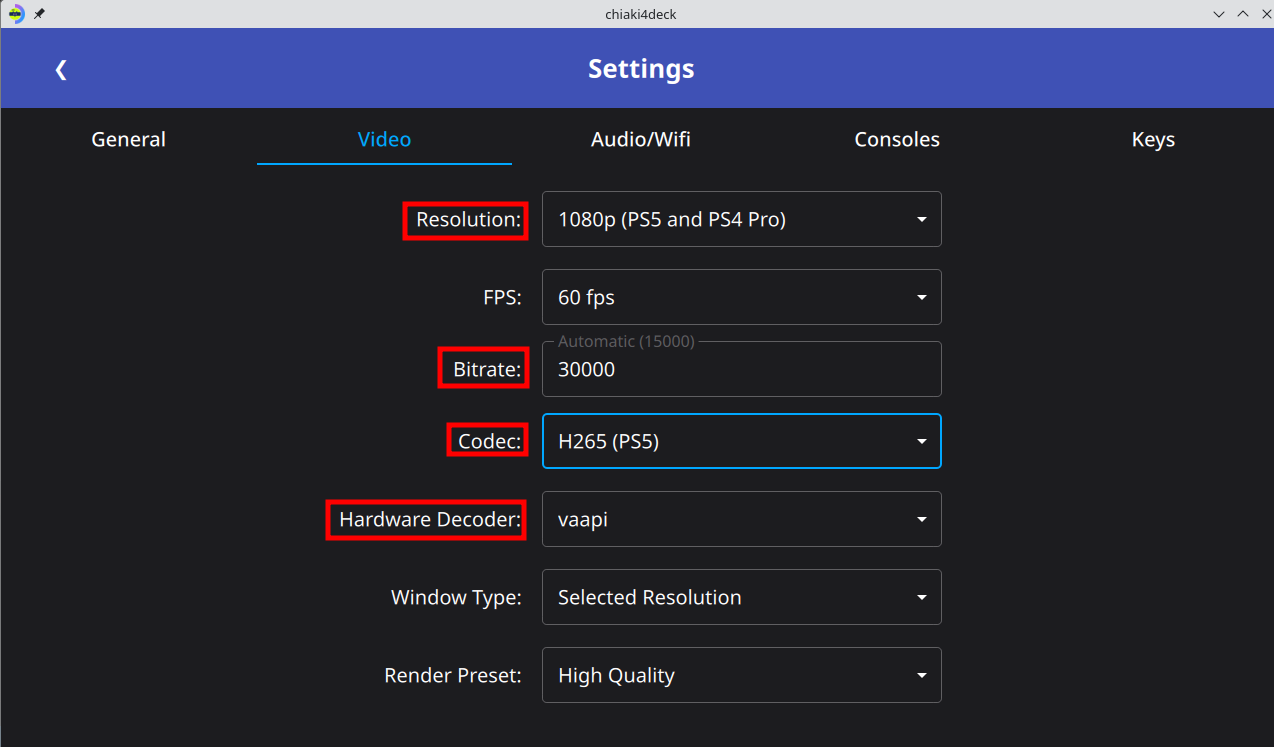
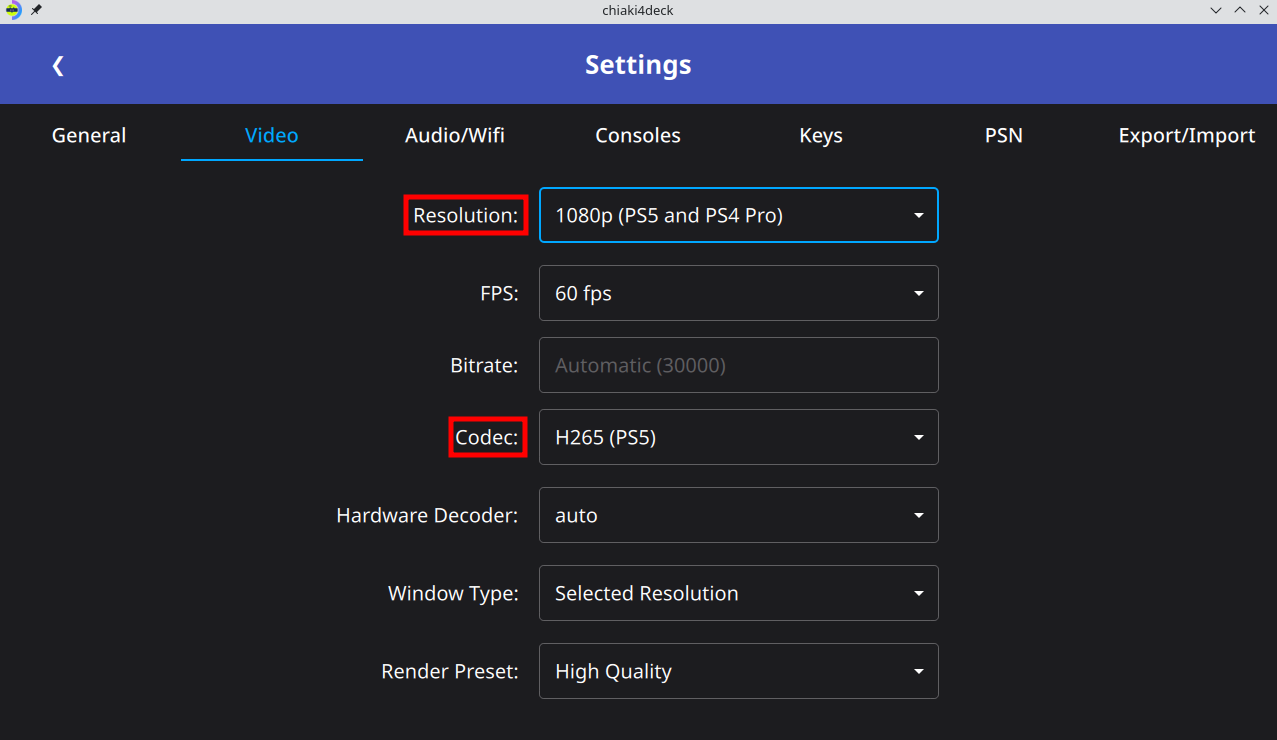
Update docs for new auto decode option and recommend 720p for non-local remote play as that will provide a better experience for most users

diff --git a/gui/src/qml/SettingsDialog.qml b/gui/src/qml/SettingsDialog.qml
@@ -286,7 +286,7 @@ DialogView {
                             case 1: bitrate = 2000; break; // 360p
                             case 2: bitrate = 6000; break; // 540p
                             case 3: bitrate = 10000; break; // 720p
-                            case 4: bitrate = 15000; break; // 1080p
+                            case 4: bitrate = 30000; break; // 1080p
                             }
                             return qsTr("Automatic (%1)").arg(bitrate);
                         }

diff --git a/docs/setup/configuration.md b/docs/setup/configuration.md
@@ -291,13 +291,13 @@ Here are different settings you can use for Chiaki/`chiaki4deck` depending on yo
 
     === "PS5/1080P HDR"
 
-        Stream output can be up to 1080p with [HDR](#hdr-high-dynamic-range). Here are the settings that are currently working well for me. This results in a native-like experience for most games on my network/setup.
+        Stream output can be up to 1080p with [HDR](#hdr-high-dynamic-range). This is the recommended setting for a local connection to a PS5 from a device that supports HDR such as the Steam Deck OLED. Here are the settings that are currently working well for me. This results in a native-like experience for most games on my network/setup.
 
         ![1080p Settings](images/1080P_SettingsHDR.png)
 
     === "PS5/1080P"
 
-        Stream output can be up to 1080p. Here are the settings that are currently working well for me. This results in a native-like experience for most games on my network/setup.
+        Stream output can be up to 1080p. This is the recommended setting for a local connection to a PS5 from a device that doesn't support HDR like the ROG Ally. Here are the settings that are currently working well for me. This results in a native-like experience for most games on my network/setup.
 
         ![1080p Settings](images/1080P_Settings.png)
 
@@ -307,9 +307,21 @@ Here are different settings you can use for Chiaki/`chiaki4deck` depending on yo
             
             However, if you are having issues with your wireless connection (i.e choppy audio, flashes in your video, or lag) while playing, then please use 720p instead. The gains you get from 1080p are nice, but aren't worth having a bad connection.
 
+    === "PS5/720P HDR"
+
+        This is the recommended setting for a remote connection for a device that supports HDR like the Steam Deck OLED to sustain high quality streaming.
+
+        ![720P PS5 HDR Settings](../images/720P_PS5HDRSettings.png)
+
+    === "PS5/720P"
+
+        This is the recommended setting for a remote connection for a device that doesn't supports HDR like the ROG Ally to sustain high quality streaming.
+
+        ![720P PS5 Settings](../images/720P_PS5Settings.png)
+
     === "PS4/720P"
 
-        For PS4, the stream is limited to 720p. Using the defaults for most values works well here, resulting in native-like (albeit w/ a diminished resolution) experience for most games on my network/setup.
+        For PS4, the stream is limited to 720p. Using the defaults for most values works well here, resulting in native-like (albeit w/ a diminished resolution) experience for most games on my network/setup. This is the recommended setting for use with the PS4 for local and remote connections.
 
         ![720p Settings](images/720P_Settings.png)
 